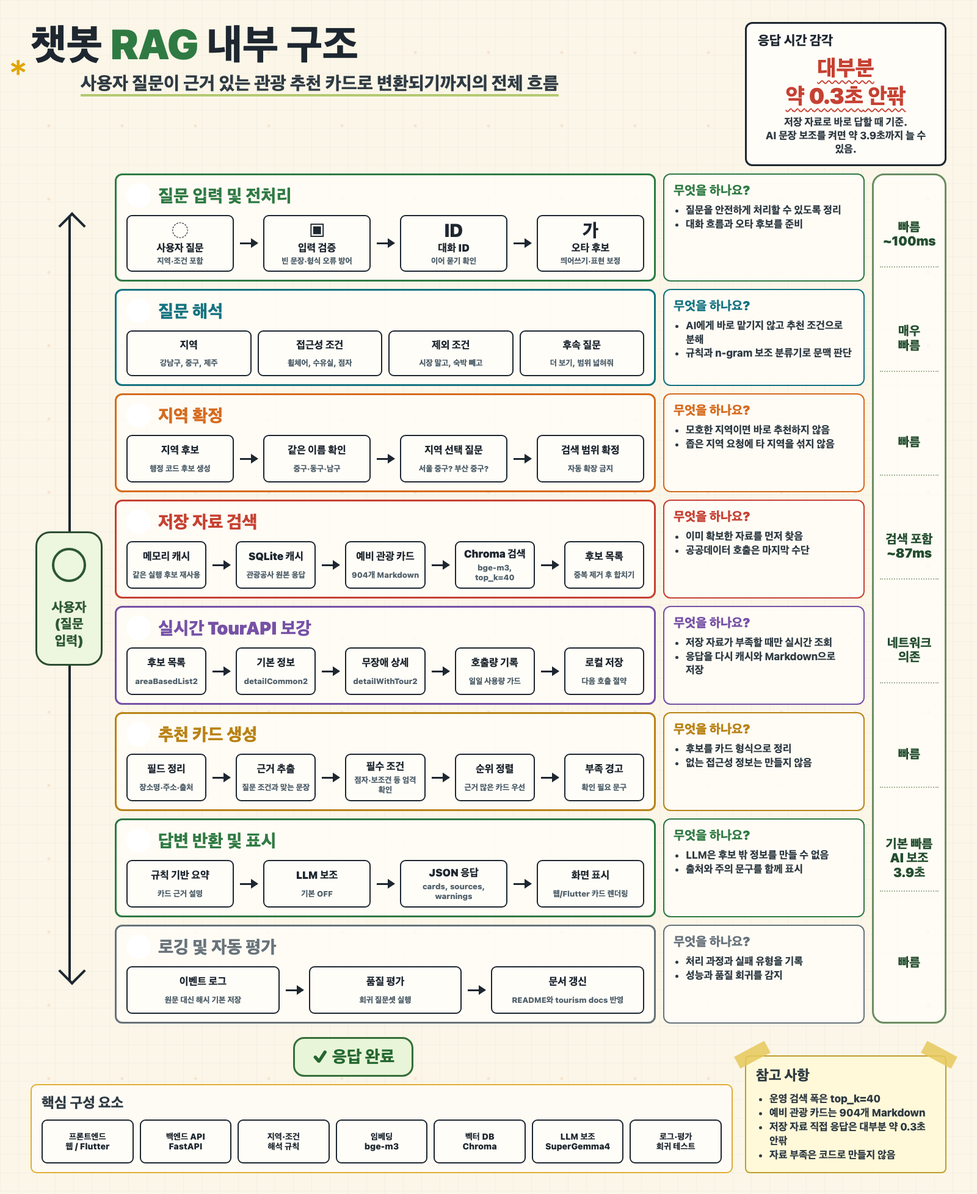
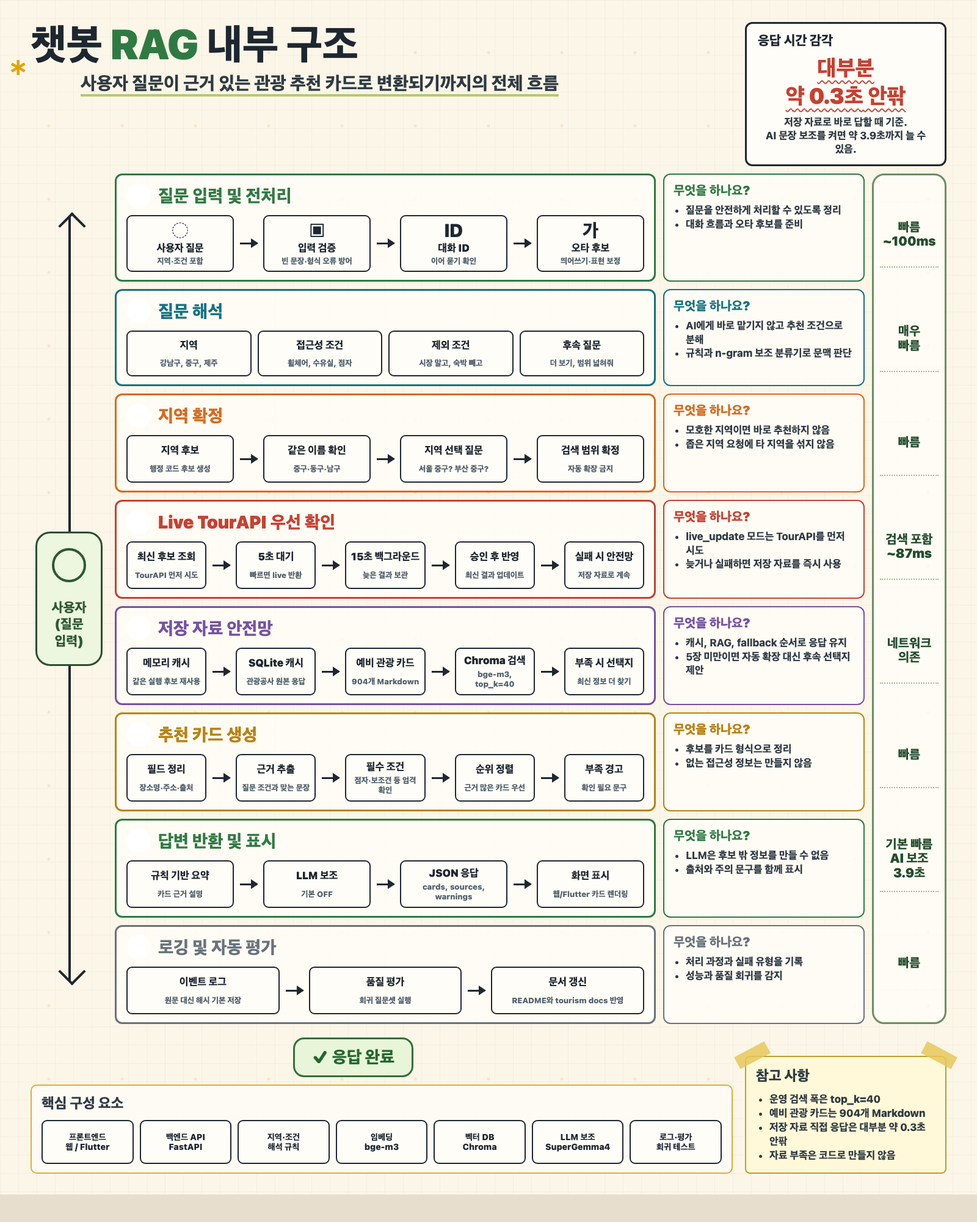
문서: TourAPI 우선 조회 설명 갱신
README와 인포그래픽 자산을 live_update 전략에 맞춰 갱신한다.\n\nTourAPI 우선 확인, 지연/실패 시 저장 자료 안전망, 최신 정보 더 찾기 흐름을 반영하고 README용 및 내부 구조 생성형 이미지를 추가한다.

diff --git a/docs/project/readme_project_infographic.html b/docs/project/readme_project_infographic.html
@@ -446,9 +446,9 @@
         <div class="flow-card green"><strong>자연어 질문</strong><p>지역, 동행자, 접근성 조건, 주변 확장 의도를 한 문장으로 입력.</p><span class="tag">/tourism/chat</span></div>
         <div class="flow-card teal"><strong>질문 해석</strong><p>지역명, 필요한 편의시설, 이어 묻기, 제외할 조건을 나눈다.</p><span class="tag">규칙 + 보조 분류기</span></div>
         <div class="flow-card yellow"><strong>대화 기억</strong><p>이전 답변의 지역과 조건을 이어받되, A 말고 B 같은 교체를 우선.</p><span class="tag">대화 ID</span></div>
-        <div class="flow-card blue"><strong>저장 기록 확인</strong><p>이미 조회한 관광 카드와 공공데이터 응답을 재사용.</p><span class="tag">저장 캐시</span></div>
-        <div class="flow-card violet"><strong>저장 문서 검색</strong><p>미리 모아 둔 관광 자료에서 비슷한 카드를 찾는다.</p><span class="tag">벡터 검색 top_k=40</span></div>
-        <div class="flow-card red"><strong>부족할 때 TourAPI 조회</strong><p>같은 지역 카드가 부족할 때만 관광공사 API를 호출.</p><span class="tag">TourAPI</span></div>
+        <div class="flow-card red"><strong>TourAPI 우선 확인</strong><p>live_update 모드에서는 먼저 최신 후보를 조회한다.</p><span class="tag">5초 대기</span></div>
+        <div class="flow-card blue"><strong>저장 기록 재사용</strong><p>응답이 늦거나 실패하면 저장 카드와 원본 응답 캐시를 사용.</p><span class="tag">SQLite + Markdown</span></div>
+        <div class="flow-card violet"><strong>저장 문서 검색</strong><p>색인된 관광 자료와 예비 카드를 안전망으로 찾는다.</p><span class="tag">벡터 검색 top_k=40</span></div>
         <div class="flow-card green"><strong>카드 형식 정리</strong><p>장소, 주소, 근거 문장, 출처, 주의 문구를 정해진 형식으로 고정.</p><span class="tag">추천 카드</span></div>
         <div class="flow-card teal"><strong>응답 반환</strong><p>답변, 추천 카드, 출처, 주의 문구, 다음 질문 후보를 반환.</p><span class="tag">근거 우선</span></div>
       </div>
@@ -516,8 +516,8 @@
       <h2 class="section-title"><span class="num">5</span>현재 운영 정책</h2>
       <div class="policy-grid">
         <div class="policy green"><strong>근거 없는 정보 생성 금지</strong><p>공공데이터나 예비 카드에 없는 접근성 정보는 추측하지 않고 확인 필요로 남긴다.</p></div>
-        <div class="policy teal"><strong>운영 검색은 벡터 검색</strong><p>실제 서비스 검색은 Chroma vector-only와 bge-m3 + top_k=40 경로를 유지한다.</p></div>
-        <div class="policy red"><strong>실시간 조회는 부족할 때만</strong><p>캐시와 예비 자료를 먼저 쓰고, 후보가 적으면 최신 정보 더 찾기를 제안한다.</p></div>
+        <div class="policy teal"><strong>운영 검색은 벡터 검색</strong><p>BM25, AutoRAG는 오프라인 비교 도구다. 실제 서비스 검색은 bge-m3 + top_k=40 유지.</p></div>
+        <div class="policy red"><strong>Live 우선 + 저장 자료 안전망</strong><p>live_update는 TourAPI를 먼저 확인하고, 지연·실패 시 캐시/RAG/fallback으로 즉시 응답한다.</p></div>
         <div class="policy yellow"><strong>관계 호칭만으로 나이 추정 금지</strong><p>아빠, 어머니, 부모님만 보고 고령자 조건을 만들지 않는다.</p></div>
         <div class="policy blue"><strong>시군구 자동 확장 금지</strong><p>좁은 지역을 말하면 타 지역을 섞지 않는다. 확장 요청이 명확할 때만 넓힌다.</p></div>
         <div class="policy violet"><strong>LLM 보조는 선택 사항</strong><p>후보에 없는 장소나 접근성 정보를 만들 수 없고, 기본값은 reasoning assist OFF다.</p></div>

diff --git a/docs/project/chatbot_rag_internal_process_infographic.html b/docs/project/chatbot_rag_internal_process_infographic.html
@@ -551,7 +551,29 @@
       </aside>
 
       <div class="stage red">
-        <h3><span class="num">4</span>저장 자료 검색</h3>
+        <h3><span class="num">4</span>Live TourAPI 우선 확인</h3>
+        <div class="nodes">
+          <div class="node"><strong>최신 후보 조회</strong><small>TourAPI 먼저 시도</small></div>
+          <span class="arrow"></span>
+          <div class="node"><strong>5초 대기</strong><small>빠르면 live 반환</small></div>
+          <span class="arrow"></span>
+          <div class="node"><strong>15초 백그라운드</strong><small>늦은 결과 보관</small></div>
+          <span class="arrow"></span>
+          <div class="node"><strong>승인 후 반영</strong><small>최신 결과 업데이트</small></div>
+          <span class="arrow"></span>
+          <div class="node"><strong>실패 시 안전망</strong><small>저장 자료로 계속</small></div>
+        </div>
+      </div>
+      <aside class="explain red">
+        <h4>무엇을 하나요?</h4>
+        <ul>
+          <li>live_update 모드는 TourAPI를 먼저 시도</li>
+          <li>늦거나 실패하면 저장 자료를 즉시 사용</li>
+        </ul>
+      </aside>
+
+      <div class="stage violet">
+        <h3><span class="num">5</span>저장 자료 안전망</h3>
         <div class="nodes">
           <div class="node"><strong>메모리 캐시</strong><small>같은 실행 후보 재사용</small></div>
           <span class="arrow"></span>
@@ -561,36 +583,14 @@
           <span class="arrow"></span>
           <div class="node"><strong>Chroma 검색</strong><small>bge-m3, top_k=40</small></div>
           <span class="arrow"></span>
-          <div class="node"><strong>후보 목록</strong><small>중복 제거 후 합치기</small></div>
-        </div>
-      </div>
-      <aside class="explain red">
-        <h4>무엇을 하나요?</h4>
-        <ul>
-          <li>이미 확보한 자료를 먼저 찾음</li>
-          <li>공공데이터 호출은 마지막 수단</li>
-        </ul>
-      </aside>
-
-      <div class="stage violet">
-        <h3><span class="num">5</span>실시간 TourAPI 보강</h3>
-        <div class="nodes">
-          <div class="node"><strong>후보 목록</strong><small>areaBasedList2</small></div>
-          <span class="arrow"></span>
-          <div class="node"><strong>기본 정보</strong><small>detailCommon2</small></div>
-          <span class="arrow"></span>
-          <div class="node"><strong>무장애 상세</strong><small>detailWithTour2</small></div>
-          <span class="arrow"></span>
-          <div class="node"><strong>호출량 기록</strong><small>일일 사용량 가드</small></div>
-          <span class="arrow"></span>
-          <div class="node"><strong>로컬 저장</strong><small>다음 호출 절약</small></div>
+          <div class="node"><strong>부족 시 선택지</strong><small>최신 정보 더 찾기</small></div>
         </div>
       </div>
       <aside class="explain violet">
         <h4>무엇을 하나요?</h4>
         <ul>
-          <li>저장 자료가 부족할 때만 실시간 조회</li>
-          <li>응답을 다시 캐시와 Markdown으로 저장</li>
+          <li>캐시, RAG, fallback 순서로 응답 유지</li>
+          <li>5장 미만이면 자동 확장 대신 후속 선택지 제안</li>
         </ul>
       </aside>
 

diff --git a/README.md b/README.md
@@ -2,17 +2,17 @@
 
 한국관광공사 OpenAPI와 로컬 RAG 검색 자료를 함께 사용해, 무장애·가족 친화 관광지를 상담하듯 추천하는 로컬 실행형 챗봇 프로젝트입니다.
 
-현재 1차 시제품은 사용자의 자연어 질문에서 지역, 동행자 상황, 접근성 조건, 주변 지역 확장 의도를 먼저 파악한 뒤, 접근성·가족 친화 근거가 있는 관광지 카드를 반환합니다. 운영 기본 경로는 저장된 캐시와 Chroma/RAG fallback을 먼저 쓰고, 같은 지역·조건 근거가 부족할 때만 TourAPI live 조회로 보강하는 방식입니다. 웹 확인 UI는 이 repo에 있고, Flutter 전환 앱은 별도 repo `../chatbot_rag_app`와 GitHub `cheng80/chatbot_rag_app`에서 관리합니다.
+현재 1차 시제품은 사용자의 자연어 질문에서 지역, 동행자 상황, 접근성 조건, 주변 지역 확장 의도를 먼저 파악한 뒤, 접근성·가족 친화 근거가 있는 관광지 카드를 반환합니다. `live_update` 모드에서는 TourAPI를 먼저 확인하고, 응답이 늦거나 실패하면 저장된 캐시와 Chroma/RAG fallback 안전망으로 바로 응답합니다. 웹 확인 UI는 이 repo에 있고, Flutter 전환 앱은 별도 repo `../chatbot_rag_app`와 GitHub `cheng80/chatbot_rag_app`에서 관리합니다.
 
 일반 관광 추천도 기반 데이터상 가능하지만, 현재 검증 범위는 **무장애·가족 친화 조건을 중심으로 한 근거 있는 관광 추천**에 둡니다.
 
-![무장애·가족 친화 관광 챗봇 README 생성형 인포그래픽](docs/project/readme_project_infographic_ai_generated.png)
+![무장애·가족 친화 관광 챗봇 README 생성형 인포그래픽](docs/project/readme_project_infographic_ai_live_update_v1.png)
 
-생성형 포스터의 기준이 되는 HTML 원본은 [README 프로젝트 인포그래픽](docs/project/readme_project_infographic.html)에서 확인할 수 있습니다.
+생성형 포스터의 기준이 되는 HTML 원본은 [README 프로젝트 인포그래픽](docs/project/readme_project_infographic.html)에서 확인할 수 있습니다. 같은 내용을 포스터 스타일로 재해석한 [생성형 README 요약 이미지](docs/project/readme_project_infographic_ai_live_update_v1.png)도 함께 보관합니다.
 
-챗봇 RAG 내부 구조를 더 자세히 푼 그림은 아래 AI 균형형 인포그래픽과 [편집용 HTML](docs/project/chatbot_rag_internal_process_infographic.html), [기존 PNG 이미지](docs/project/chatbot_rag_internal_process_infographic.png)에서 확인할 수 있습니다.
+챗봇 RAG 내부 구조를 더 자세히 푼 그림은 아래 AI live_update 인포그래픽과 [편집용 HTML](docs/project/chatbot_rag_internal_process_infographic.html), [PNG 이미지](docs/project/chatbot_rag_internal_process_infographic.png)에서 확인할 수 있습니다.
 
-![챗봇 RAG 내부 구조 AI 균형형 인포그래픽](docs/project/chatbot_rag_internal_process_infographic_ai_balanced_v3.png)
+![챗봇 RAG 내부 구조 AI live_update 인포그래픽](docs/project/chatbot_rag_internal_process_infographic_ai_live_update_v4.png)
 
 교수님 또는 외부 검토자에게는 먼저 [무장애·가족 친화 관광 챗봇 시제품 검토 자료](docs/project/professor_review_brief.md)를 보여주는 것을 권장합니다. 이 README는 설치와 실행 방법을 함께 담은 개발·운영 안내 문서입니다.
 
@@ -47,7 +47,9 @@ ChromaDB 벡터DB에서 관련 문서 검색
 답변 + 출처 반환
 ```
 
-관광 챗봇은 매번 공공데이터를 새로 호출하지 않습니다. 이미 저장한 관광 카드 캐시와 RAG로 색인한 Markdown 자료를 먼저 확인하고, 같은 지역 카드가 없을 때만 한국관광공사 TourAPI를 조회합니다. 저장된 후보가 5장보다 적은 경우에는 자동으로 live 조회를 늘리지 않고 `최신 정보 더 찾기` 후속 선택지를 제안합니다. 데이터 최신성은 시제품 단계에서는 제한적으로 다루고, 이후 주기적 갱신 절차로 보완합니다.
+관광 챗봇은 `TOURISM_LOOKUP_STRATEGY` 설정에 따라 후보 조회 순서를 바꿀 수 있습니다. `live_update` 모드에서는 지역과 조건이 확정되면 한국관광공사 TourAPI를 먼저 조회하고, 응답이 늦거나 실패하면 저장된 live Markdown 캐시, ChromaDB/RAG 색인 자료, raw fallback Markdown으로 바로 응답합니다. `cache_first` 모드는 저장 자료를 먼저 쓰고 후보가 없거나 사용자가 최신 정보 보강을 요청할 때만 TourAPI를 조회합니다.
+
+현재 시제품의 데이터 최신성은 live 조회와 원본 응답 SQLite 캐시로 제한적으로 보완하며, 장기적으로는 주기적 갱신 절차를 추가하는 방향입니다. 저장 자료만으로 반환한 후보가 5장보다 적을 때는 자동으로 live 조회를 더 늘리지 않고, 사용자가 누를 수 있는 `최신 정보 더 찾기` 후속 선택지를 제안합니다.
 
 ```text
 사용자 질문
@@ -56,11 +58,15 @@ ChromaDB 벡터DB에서 관련 문서 검색
   ↓
 동명이 지역이면 지역 선택 후보 반환
   ↓
-이전에 조회해 저장한 관광 카드 캐시 확인
+live_update 모드이면 TourAPI를 먼저 조회
+  ↓
+정해진 대기 시간 안에 live 결과가 오면 live 카드 반환
+  ↓
+늦거나 실패하면 live Markdown 캐시 확인
   ↓
 ChromaDB/RAG로 미리 수집한 관광 자료 검색
   ↓
-그래도 없으면 한국관광공사 TourAPI 조회
+raw fallback Markdown 확인
   ↓
 관광지 후보와 무장애 상세 정보 확인
   ↓
@@ -203,11 +209,16 @@ TOUR_API_ACCESSIBLE_SERVICE_KEY=
 TOUR_API_RESPONSE_CACHE_ENABLED=true
 TOUR_API_RESPONSE_CACHE_PATH=./data/generated/tour_api/live_response_cache.sqlite3
 TOURISM_LIVE_LOOKUP_ENABLED=true
+TOURISM_LOOKUP_STRATEGY=cache_first
+TOURISM_LIVE_FIRST_WAIT_SECONDS=5
+TOURISM_LIVE_BACKGROUND_TIMEOUT_SECONDS=15
 TOURISM_LIVE_CACHE_PATH=./data/generated/tour_api/live_markdown
 TOURISM_SAMPLE_PATH=./data/raw/tourism_accessible
 TOURISM_QUERY_EVENT_LOG_ENABLED=true
 TOURISM_QUERY_EVENT_LOG_INCLUDE_MESSAGE=false
 ```
+
+`TOURISM_LOOKUP_STRATEGY=live_update`로 바꾸면 TourAPI를 먼저 시도합니다. `TOURISM_LIVE_FIRST_WAIT_SECONDS` 안에 결과가 오면 live 카드를 바로 반환하고, 늦거나 실패하면 캐시/RAG/fallback 결과를 먼저 보여줍니다. 백그라운드 live 결과가 `TOURISM_LIVE_BACKGROUND_TIMEOUT_SECONDS` 안에 도착하면 다음 요청에서 `최신 결과 업데이트 보기` 같은 승인 선택지로 반영할 수 있습니다.
 
 ## 5. 문서 넣기
 
@@ -358,20 +369,22 @@ flutter run --dart-define=API_BASE=http://127.0.0.1:8000
 
 주요 정책:
 
-- 지역이 확정되면 먼저 이전에 조회해 저장한 관광 카드 캐시를 확인한다.
-- 캐시에 없으면 ChromaDB/RAG로 미리 수집한 관광 Markdown을 검색한다.
-- RAG 자료에도 같은 지역 카드가 없고 공공데이터 키가 있으면 요청 시점에 한국관광공사 TourAPI를 조회한다.
-- 실시간 조회 결과는 메모리와 `data/generated/tour_api/live_markdown/`에 캐시해 같은 지역 반복 호출을 줄인다.
-- 저장된 후보가 1-4장만 있으면 자동 live 조회를 늘리지 않고 `최신 정보 더 찾기` 후속 선택지로 사용자 확인을 받는다.
-- 캐시/RAG 자료에도 없고 실시간 조회가 실패하거나 결과가 없으면 결과 부족 응답을 반환하고 주의 문구에 진단을 남긴다.
-- 응답의 `lookup_mode`는 현재 응답이 캐시, 실시간 조회, RAG 검색 자료, 폴백 자료, 지역 선택 질문 중 어디에서 왔는지 나타낸다.
+- `TOURISM_LOOKUP_STRATEGY=live_update`이면 지역이 확정된 질문에서 TourAPI를 먼저 시도한다.
+- live 결과가 정해진 대기 시간 안에 오고 요청 조건 근거가 맞으면 `lookup_mode=live`로 반환한다.
+- live 응답이 늦거나 실패하면 저장된 live Markdown 캐시, ChromaDB/RAG 색인 자료, raw fallback Markdown 순서로 응답을 유지한다.
+- 백그라운드 live 결과가 제한 시간 안에 도착하면 다음 요청에서 사용자의 승인 후 `lookup_mode=live_update`로 반영한다.
+- `TOURISM_LOOKUP_STRATEGY=cache_first`이면 저장 자료를 먼저 쓰고, 후보가 없거나 사용자가 `최신 정보 더 찾기`를 요청할 때 TourAPI를 조회한다.
+- 저장 자료 응답이 5장보다 적어도 자동으로 live 조회를 추가 확장하지 않고 `최신 정보 더 찾기` 후속 선택지를 제안한다.
+- 실시간 조회 결과는 원본 SQLite 캐시와 `data/generated/tour_api/live_markdown/`에 저장해 같은 지역 반복 호출을 줄인다.
+- 모든 후보 경로가 실패하거나 조건 근거가 맞는 카드가 없으면 결과 부족 응답을 반환하고 주의 문구에 진단을 남긴다.
+- 응답의 `lookup_mode`는 현재 응답이 live, live update, 캐시, RAG 검색 자료, 폴백 자료, 지역 선택 질문 중 어디에서 왔는지 나타낸다.
 - 복합 상황 질문의 LLM 추론 보조는 기본값이 꺼져 있다. 품질 비교나 실험이 필요할 때만 `TOURISM_REASONING_ASSIST_ENABLED=true`로 켜고, 응답의 `reasoning_assist_used`와 `reasoning_assist_notes`로 사용 여부와 확인 필요 메모를 확인한다.
 - 추론 보조는 후보 카드의 순서와 설명 방향만 조정한다. 후보에 없는 장소나 접근성 정보를 만들면 안 된다.
 - 추론 보조를 끈 기본 모드에서 질문 의도 파악이 달라지는지 확인하려면 같은 eval을 ON/OFF로 실행해 `lookup_mode`, 카드 수, 카드 ID 순서, `warnings`, `suggested_messages`를 비교한다.
 - `/tourism/chat` 응답은 `data/generated/tour_api/query_card_events.jsonl`에 이벤트로 남긴다. 기본값은 원문 질문을 저장하지 않고 `message_hash`만 저장한다.
 - 원문 질문까지 저장해야 할 때만 `TOURISM_QUERY_EVENT_LOG_INCLUDE_MESSAGE=true`를 켠다.
-- 개발과 확인 단계의 기본 모드는 캐시/RAG를 먼저 쓰고 부족할 때만 TourAPI를 실시간 조회하는 방식이다. `TourAPIService`는 원본 TourAPI 응답을 `data/generated/tour_api/live_response_cache.sqlite3`에 저장해 서버 재시작 뒤 같은 지역/상세 조회를 재사용한다. 호출량이나 시연장 네트워크가 불안하면 `.env`에서 `TOURISM_LIVE_LOOKUP_ENABLED=false`로 끄고 폴백 자료만으로 운영한다.
-- 장기 권장 구조는 캐시/RAG 우선, 주기적 갱신, 부족 지역 실시간 조회의 조합이다. 데이터 최신성은 시제품 이후 갱신 절차로 보완한다.
+- `TourAPIService`는 원본 TourAPI 응답을 `data/generated/tour_api/live_response_cache.sqlite3`에 저장해 서버 재시작 뒤 같은 지역/상세 조회를 재사용한다. 호출량이나 시연장 네트워크가 불안하면 `.env`에서 `TOURISM_LIVE_LOOKUP_ENABLED=false`로 끄고 폴백 자료만으로 운영한다.
+- 장기 권장 구조는 live 조회, 저장 자료 안전망, 주기적 갱신의 조합이다. 데이터 최신성은 시제품 이후 갱신 절차로 보완한다.
 - 시군구처럼 좁은 지역을 명시하면 자동으로 타 지역을 섞지 않는다.
 - `근처`, `주변`, `가까운`, `인근`은 상위 광역 확장 신호로 쓰지 않고, 요청 시군구 후보를 먼저 반환한다.
 - `부족하면 서울 전체로 넓혀줘`처럼 조건부 확장을 말한 경우에는 요청 시군구 후보가 기본 표시 수인 5장보다 부족할 때만 상위 지역 후보를 섞는다.

diff --git a/docs/project/readme_project_infographic_image_prompt.md b/docs/project/readme_project_infographic_image_prompt.md
@@ -1,0 +1,109 @@
+# README 프로젝트 인포그래픽 이미지 생성 프롬프트
+
+아래 프롬프트는 `docs/project/readme_project_infographic.html`의 최신 내용을 바탕으로, ChatGPT 이미지 생성이나 다른 이미지 생성 도구에 넣어 README용 생성형 요약 이미지를 만들 때 사용한다.
+
+목표는 정확한 운영 명세표가 아니라, 프로젝트 첫 화면에서 한눈에 이해되는 AI 생성형 기술 요약 포스터다. 텍스트 정확도가 중요하므로 작은 문장을 많이 넣지 말고 큰 라벨 중심으로 구성한다.
+
+## 최종 프롬프트
+
+세로형 README용 기술 인포그래픽 이미지를 새로 그려줘.
+
+중요:
+
+- 웹페이지 스크린샷처럼 만들지 마.
+- HTML 원본의 사실, 제목, 흐름, 정책만 추출해서 새 포스터 이미지로 재해석해.
+- 작은 글씨를 많이 넣지 말고, 큰 섹션명 + 아이콘 + 짧은 설명 중심으로 구성해.
+- 한국어 텍스트를 또렷하고 정확하게 써. 자신 없으면 작은 문장은 생략해.
+- 존재하지 않는 기술명, API명, 숫자를 만들지 마.
+
+반드시 유지할 큰 내용:
+
+- 제목: `무장애·가족 친화 관광 챗봇`
+- 부제: `한국관광공사 데이터, 저장 문서 검색, 로컬 AI 모델을 묶어 접근성 근거가 있는 관광지 카드를 상담 흐름으로 추천하는 로컬 실행형 프로젝트`
+- 핵심 메시지: `TourAPI를 먼저 확인하고, 늦거나 실패하면 저장 자료 안전망으로 응답한다. 근거 없는 접근성 정보는 만들지 않는다.`
+
+큰 섹션:
+
+1. 추천 카드 흐름
+   - 자연어 질문
+   - 질문 해석
+   - 대화 기억
+   - TourAPI 우선 확인
+   - 저장 기록 재사용
+   - 저장 문서 검색
+   - 카드 형식 정리
+   - 응답 반환
+
+2. 시스템 레이어
+   - 사용자 화면
+   - FastAPI 서버
+   - AI와 판단 규칙
+
+3. 데이터 파이프라인
+   - 관광공사 API
+   - 904개 예비 관광 카드
+   - Chroma + bge-m3 검색 색인
+   - SQLite 응답 저장소
+
+4. 품질 게이트
+   - 주요 자동 질문셋 실패 0
+   - 지역·조건 변경 대화 테스트 통과
+   - 오타 질문 200개 중 남은 실패 28
+
+5. 현재 운영 정책
+   - 근거 없는 정보 생성 금지
+   - Live 우선 + 저장 자료 안전망
+   - 시군구 자동 확장 금지
+   - LLM 보조는 선택 사항
+
+표시해도 되는 핵심 기술명:
+
+- FastAPI
+- `/tourism/chat`
+- Chroma
+- bge-m3
+- TourAPI
+- SQLite
+- SuperGemma4
+- JSON
+
+정확히 써야 하는 문구:
+
+- `TourAPI 우선 확인`
+- `저장 자료 안전망`
+- `최신 정보 더 찾기`
+- `근거 없는 정보 생성 금지`
+- `자료 부족은 코드로 만들지 않음`
+- `휠체어`
+
+숫자 표현:
+
+- `904개 예비 관광 카드`
+- `top_k=40`
+- `실패 0`
+- `남은 실패 28`
+- `5초 대기`
+
+디자인 스타일:
+
+- tall vertical README technical infographic poster
+- off-white paper background
+- subtle paper texture
+- clean whiteboard explainer style
+- 첨부한 기존 README 이미지처럼 가족·휠체어 사용자·관광지 풍경·서버·DB·문서·돋보기·체크리스트 아이콘을 중심으로 구성
+- black ink sketch lines
+- muted green, teal, red, yellow, blue, violet accents
+- large numbered section badges
+- simple technical icons
+- roomy spacing and large readable Korean labels
+- startup technical blog / AI thread style
+
+피해야 할 것:
+
+- 웹페이지 캡처처럼 보이는 결과
+- 작은 글씨가 빽빽한 운영 명세표
+- 랜덤한 영어/한글 더미 텍스트
+- 존재하지 않는 기술명이나 수치
+- `휄체어` 같은 오탈자
+- 자료 부족을 코드가 해결한다는 표현
+- 뇌, 뉴런, 해부학적 머리, 로봇 머리처럼 관광 서비스 맥락과 안 맞는 AI 아이콘

diff --git a/docs/project/chatbot_rag_infographic_image_prompt.md b/docs/project/chatbot_rag_infographic_image_prompt.md
@@ -29,15 +29,15 @@
 - 제목: `챗봇 RAG 내부 구조`
 - 부제: `사용자 질문이 근거 있는 관광 추천 카드로 변환되기까지의 전체 흐름`
 - 예시 질문: `서울 강남구에서 휠체어 관광지 추천해줘`
-- 핵심 메시지: `먼저 저장 자료를 찾고, 부족할 때만 실시간 공공데이터를 조회하며, 확인된 근거가 없는 접근성 정보는 만들지 않는다.`
+- 핵심 메시지: `TourAPI를 먼저 확인하되, 늦거나 실패하면 저장 자료 안전망으로 응답하며, 확인된 근거가 없는 접근성 정보는 만들지 않는다.`
 
 전체 흐름:
 
 1. 질문 입력
 2. 질문 해석
 3. 지역 확정
-4. 저장 자료 검색
-5. TourAPI 보강
+4. Live TourAPI 우선 확인
+5. 저장 자료 안전망
 6. 추천 카드 생성
 7. 답변 표시
 8. 로깅 및 평가
@@ -62,18 +62,19 @@
    - 검색 범위 확정
    - 짧은 설명: 엉뚱한 지역을 섞지 않음
 
-4. 저장 자료 검색
+4. Live TourAPI 우선 확인
+   - TourAPI 먼저 시도
+   - 5초 대기
+   - 늦은 결과 보관
+   - 승인 후 반영
+   - 짧은 설명: 빠르면 live 카드 반환
+
+5. 저장 자료 안전망
    - 캐시
    - 904개 Markdown
    - Chroma + bge-m3
-   - top_k=40 후보
-   - 짧은 설명: 저장 자료를 먼저 검색
-
-5. TourAPI 보강
-   - 후보 부족
-   - TourAPI 조회
-   - 로컬 저장
-   - 짧은 설명: 부족할 때만 실시간 보강
+   - 최신 정보 더 찾기
+   - 짧은 설명: 지연·실패 시 즉시 응답
 
 6. 추천 카드 생성
    - 근거 추출
@@ -118,7 +119,7 @@
 - 필요하면 작은 참고로 하나만 더 써:
   - `LLM 보조 ON: 더 느려질 수 있음`
 - `2ms`, `87ms`, `3.9초` 같은 세부 벤치마크 숫자는 이미지에 넣지 마.
-- `top_k=40`, `904개 Markdown`은 4단계 저장 자료 검색이나 하단 참고 박스 중 한 곳에 넣어도 된다.
+- `top_k=40`, `904개 Markdown`은 5단계 저장 자료 안전망이나 하단 참고 박스 중 한 곳에 넣어도 된다.
 
 텍스트 양 제한:
 
@@ -157,8 +158,8 @@
 
 하단 참고 사항은 아래 중 최대 3개만 선택:
 
-- 운영 검색 폭은 `top_k=40`
-- 예비 관광 카드는 `904개 Markdown`
+- TourAPI 우선 대기는 `5초`
+- 저장 자료 안전망은 `904개 Markdown`
 - 저장 자료 직접 응답은 대부분 `약 0.3초` 안팎
 - 자료 부족은 코드로 만들지 않음
 
